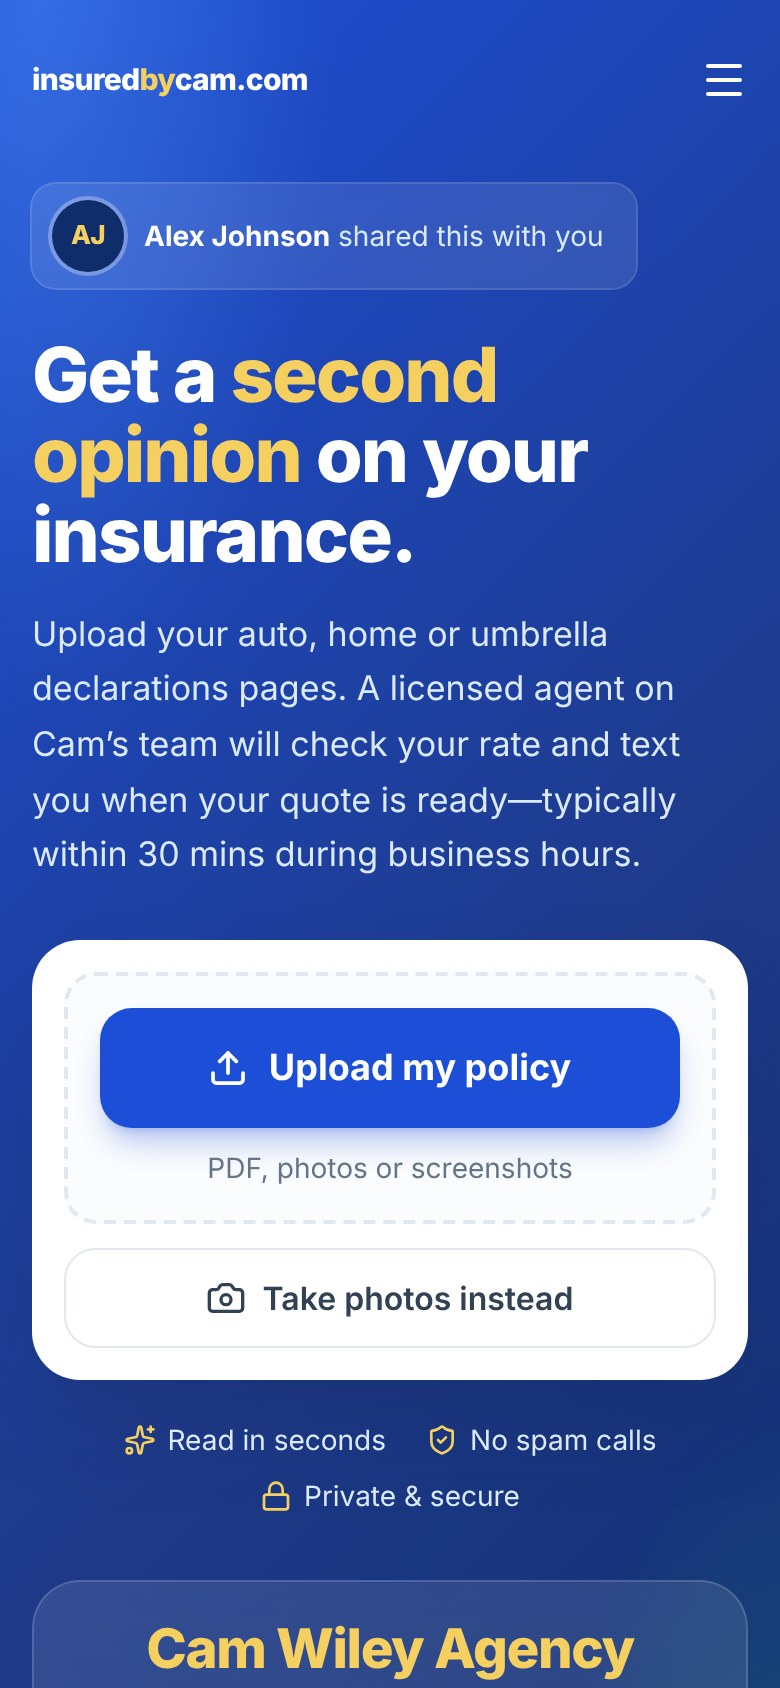
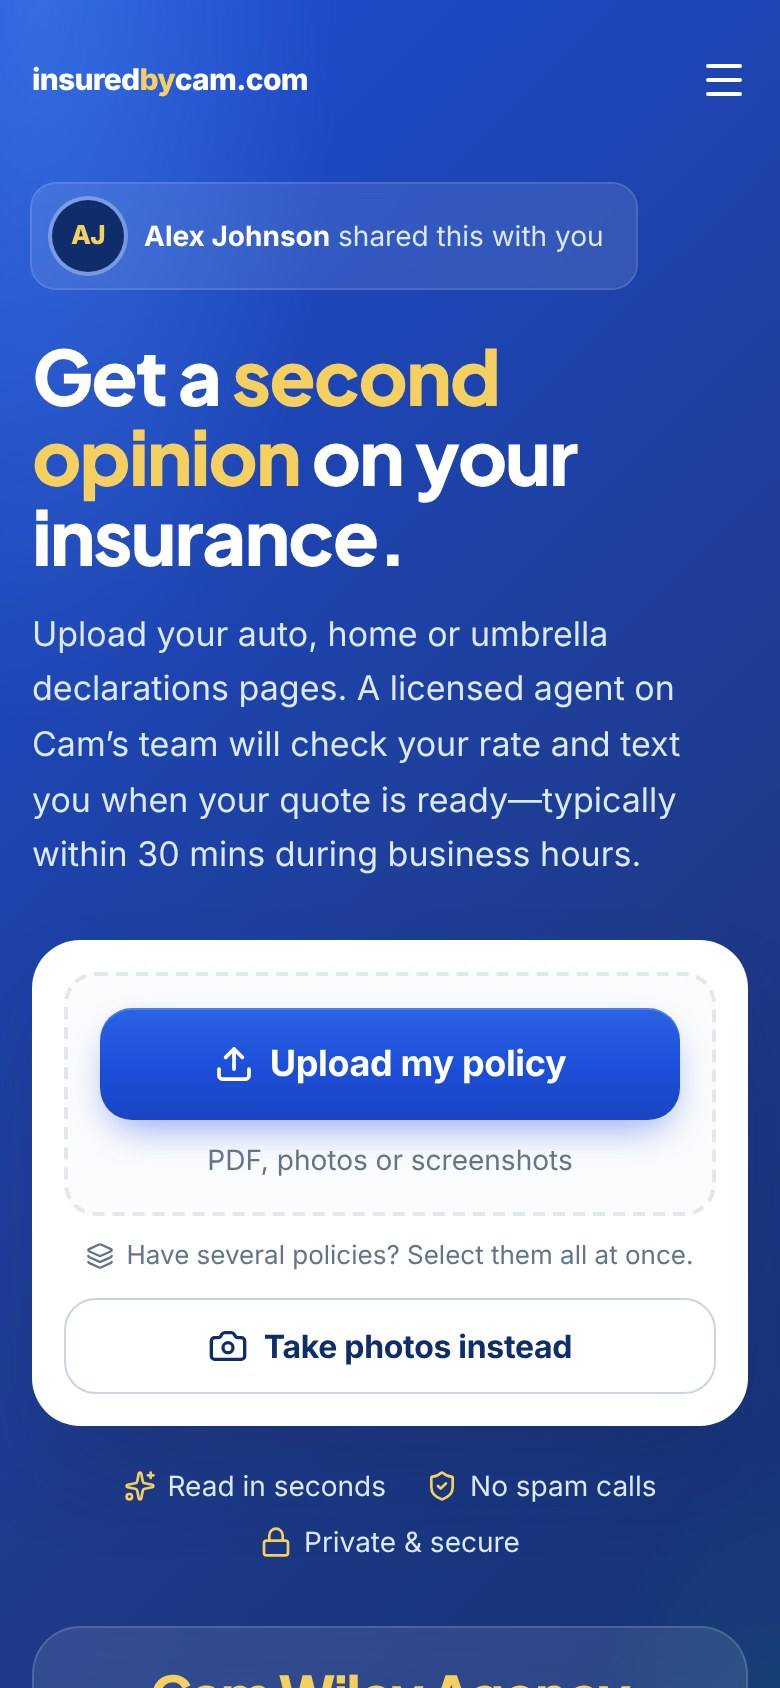
Google reviews: one-tap asks for customers and partners, portal review card
- lib/reviews: review link (VITE_GOOGLE_REVIEW_URL, Google search until set)
  and the two texts. Asked of every customer who bought, nothing offered.
- Agency desk: "Ask for a review" on won rate checks opens Messages with
  the text and link written in.
- Partners tab: "Ask for a review (if they're a customer)" per partner;
  the text asks them to mention they're a referral partner.
- Partner portal: "Also a customer?" card with a Write a review button.
- Partner pitch screenshots retaken.

Claude-Session: https://claude.ai/code/session_01ALNZAc94dnod2U2WV7PUZi

diff --git a/src/pages/PartnerPortalPage.jsx b/src/pages/PartnerPortalPage.jsx
@@ -7,7 +7,8 @@
 
 import { useCallback, useEffect, useRef, useState } from 'react';
 import { useParams } from 'react-router-dom';
-import { Camera, Check, Copy, Loader2, Share2, X } from 'lucide-react';
+import { Camera, Check, Copy, ExternalLink, Loader2, Share2, Star, X } from 'lucide-react';
+import { GOOGLE_REVIEW_URL } from '../lib/reviews';
 import { loadPartnerPortal, signPartnerAgreement, savePartnerPhoto, removePartnerPhoto, squarePhoto, submitPartnerW9 } from '../lib/rateCheckApi';
 import { TAX_CLASSES, LLC_CLASSES, formatTin, w9Problems, w9Payload } from './components/rate-checks/w9';
 import { inviteUrl } from './components/rate-checks/invite';
@@ -84,9 +85,28 @@ export default function PartnerPortalPage() {
         {error ? <p className="rounded-2xl bg-white p-4 text-slate-700 shadow-sm ring-1 ring-slate-200">{error}</p>
           : !data ? <p className="flex items-center gap-2 rounded-2xl bg-white p-4 text-slate-500 shadow-sm ring-1 ring-slate-200"><Loader2 className="h-4 w-4 animate-spin" aria-hidden="true" /> Loading…</p>
           : gate ? <SignAgreement token={token} data={data} onSigned={load} />
-          : <Earnings token={token} data={data} onChange={load} />}
+          : <><Earnings token={token} data={data} onChange={load} /><ReviewCard /></>}
       </main>
     </div>
+  );
+}
+
+// Partners who are also customers can review their own experience. Optional, no
+// reward, and they're asked to say they're a partner (the FTC expects that).
+function ReviewCard() {
+  return (
+    <section className="mt-4 rounded-2xl bg-white p-5 shadow-sm ring-1 ring-slate-200">
+      <div className="flex items-center gap-2">
+        <span className="flex gap-0.5 text-[#F5D061]" aria-hidden="true">{[0, 1, 2, 3, 4].map(i => <Star key={i} className="h-4 w-4 fill-current" />)}</span>
+        <p className="font-bold text-[#0F2D6B]">Also a customer?</p>
+      </div>
+      <p className="mt-1.5 text-sm leading-relaxed text-slate-600">
+        An honest Google review about your experience helps other families find Cam. Please mention you’re a referral partner. It’s optional and has nothing to do with your referral fees.
+      </p>
+      <a href={GOOGLE_REVIEW_URL} target="_blank" rel="noreferrer" className="qb qb-outline qb-md mt-3 w-full">
+        Write a review <ExternalLink className="h-4 w-4" aria-hidden="true" />
+      </a>
+    </section>
   );
 }
 

diff --git a/src/pages/RateChecksPage.jsx b/src/pages/RateChecksPage.jsx
@@ -4,11 +4,12 @@
 // the outcome (won → call, lost → polite auto-text) is handled by rate-check-outcome.
 
 import { T } from '../components/SiteCopy';
+import { customerReviewText, smsHref } from '../lib/reviews';
 import { useEffect, useMemo, useRef, useState } from 'react';
 import { Link } from 'react-router-dom';
 import {
   AlertCircle, AlertTriangle, ArrowRight, BadgeDollarSign, Bell, Camera, Check, ChevronDown, ChevronRight, Clock, ExternalLink, Handshake, Link2, Mail, Map as MapIcon,
-  MessageSquare, Pencil, Phone, RefreshCw, Search, Send, SlidersHorizontal, Upload, Users, X,
+  MessageSquare, Pencil, Phone, RefreshCw, Search, Send, SlidersHorizontal, Star, Upload, Users, X,
 } from 'lucide-react';
 import { useAuth } from '../contexts/AuthContext';
 import { useCurrentAgency } from '../hooks/useAgencyLeads';
@@ -663,6 +664,12 @@ function RateCheckDrawer({ rc, household: rows, now, onClose, onSelect, onQuoted
               <a href={`sms:+1${rc.phone}`} className="inline-flex items-center gap-1.5 rounded-lg px-3 py-1.5 font-medium" style={inputStyle}>
                 <MessageSquare className="h-4 w-4" /> <T k="pages.ratecheckspage.9dffbf">Text</T>
               </a>
+              {rc.status === 'won' && (
+                <a href={smsHref(rc.phone, customerReviewText(rc.first_name))} className="inline-flex items-center gap-1.5 rounded-lg px-3 py-1.5 font-medium" style={inputStyle}
+                  title="Opens Messages with your Google review link written in">
+                  <Star className="h-4 w-4" /> <T k="rc.desk.askreview">Ask for a review</T>
+                </a>
+              )}
               {rc.email && (
                 <a href={`mailto:${rc.email}`} className="inline-flex items-center gap-1.5 rounded-lg px-3 py-1.5 font-medium" style={inputStyle}>
                   <Mail className="h-4 w-4" /> <T k="pages.ratecheckspage.ce8ae9">Email</T>

diff --git a/src/lib/reviews.js b/src/lib/reviews.js
@@ -1,0 +1,37 @@
+// src/lib/reviews.js
+// Google review asks. Staff send them from their own phones (sms: links), to
+// every customer who bought, never only the happy ones, and nothing is offered
+// in return (Google's review policy and the FTC's 2024 rule on fake/incentivized
+// reviews). Partners who are customers can review their own experience; the
+// text asks them to mention they're a referral partner, which the FTC expects.
+
+// Your Google "write a review" link. Until it's set, the Google search for the
+// agency (where "Write a review" is one tap away) stands in.
+export const GOOGLE_REVIEW_URL = import.meta.env.VITE_GOOGLE_REVIEW_URL
+  || 'https://www.google.com/search?q=Cam+Wiley+Allstate+Insurance+Conyers+GA';
+
+const first = (name) => String(name || '').trim().split(/\s+/)[0] || 'there';
+
+/** A customer who bought. */
+export function customerReviewText(name) {
+  return [
+    `Hi ${first(name)}, it's Cam with Cam Wiley Agency. Thank you for trusting us with your insurance!`,
+    '',
+    `If you have a minute, an honest Google review helps other Georgia families find us: ${GOOGLE_REVIEW_URL}`,
+    '',
+    'Questions about your policy? Just reply here.',
+  ].join('\n');
+}
+
+/** A referral partner who's also a customer. */
+export function partnerReviewText(name) {
+  return [
+    `Hi ${first(name)}, it's Cam. Thank you for being a customer and a referral partner!`,
+    '',
+    `If you'd like to, an honest Google review about your experience as a customer would mean a lot: ${GOOGLE_REVIEW_URL}`,
+    '',
+    'Please mention that you\'re also one of our referral partners. Totally optional, and it has nothing to do with your referral fees.',
+  ].join('\n');
+}
+
+export const smsHref = (phone, body) => `sms:${phone ? `+1${String(phone).replace(/\D/g, '').slice(-10)}` : ''}?&body=${encodeURIComponent(body)}`;

diff --git a/src/pages/components/rate-checks/PartnersTab.jsx b/src/pages/components/rate-checks/PartnersTab.jsx
@@ -7,7 +7,8 @@
 
 import { T } from '../../../components/SiteCopy';
 import { useEffect, useMemo, useRef, useState } from 'react';
-import { AlertTriangle, Check, ChevronDown, ChevronRight, Download, MessageSquare, Plus } from 'lucide-react';
+import { AlertTriangle, Check, ChevronDown, ChevronRight, Download, MessageSquare, Plus, Star } from 'lucide-react';
+import { partnerReviewText, smsHref } from '../../../lib/reviews';
 import {
   usePromoters, usePromoterScans, usePromoterRates, usePromoterPayouts,
   useSavePromoter, useSavePromoterRates, useRecordPromoterPayout, useSetPromoterPhoto, partnerW9Url,
@@ -195,6 +196,13 @@ export default function PartnersTab({ agencyId, userId, canEdit, onOpenRateCheck
                 </a>
               )} />
             <LinkRow label={!PARTNER_AGREEMENT_REQUIRED || p.agreement_signed_at ? 'Share link' : 'Share link · off until signed'} url={inviteUrl(p.code)} copyLabel="Copy link" muted={PARTNER_AGREEMENT_REQUIRED && !p.agreement_signed_at} />
+
+            {p.phone && (
+              <a href={smsHref(p.phone, partnerReviewText(p.name))} title="Opens Messages with your Google review link written in"
+                className="mt-2 inline-flex items-center gap-1.5 text-xs font-semibold text-primary-600 hover:underline">
+                <Star className="h-3.5 w-3.5" aria-hidden="true" /> <T k="rc.partners.askreview">Ask for a review (if they’re a customer)</T>
+              </a>
+            )}
 
             <div className="mt-4 grid grid-cols-3 gap-3">
               <Stat label="Households" value={s.month.households} />
